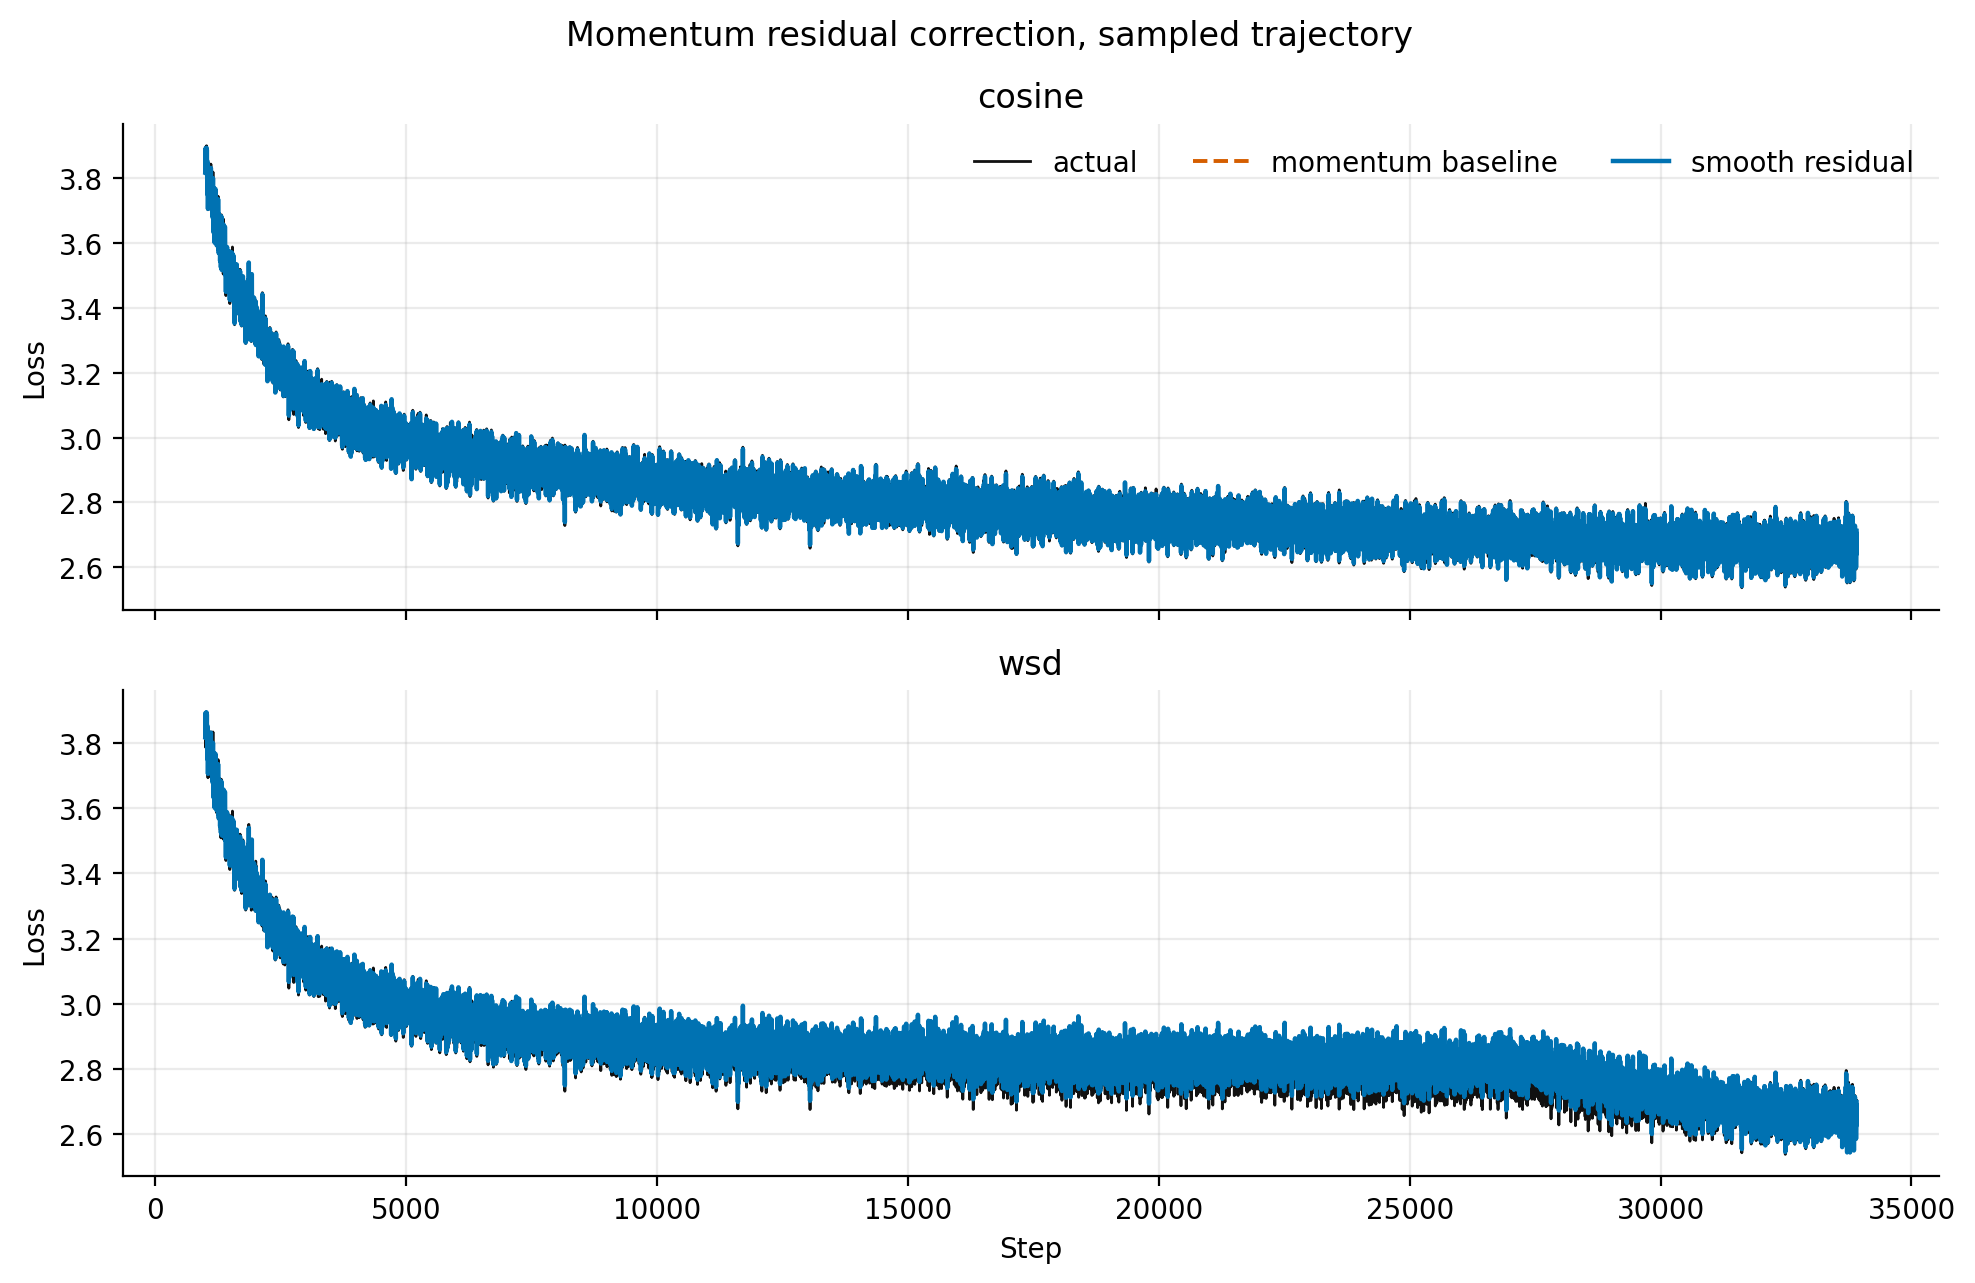
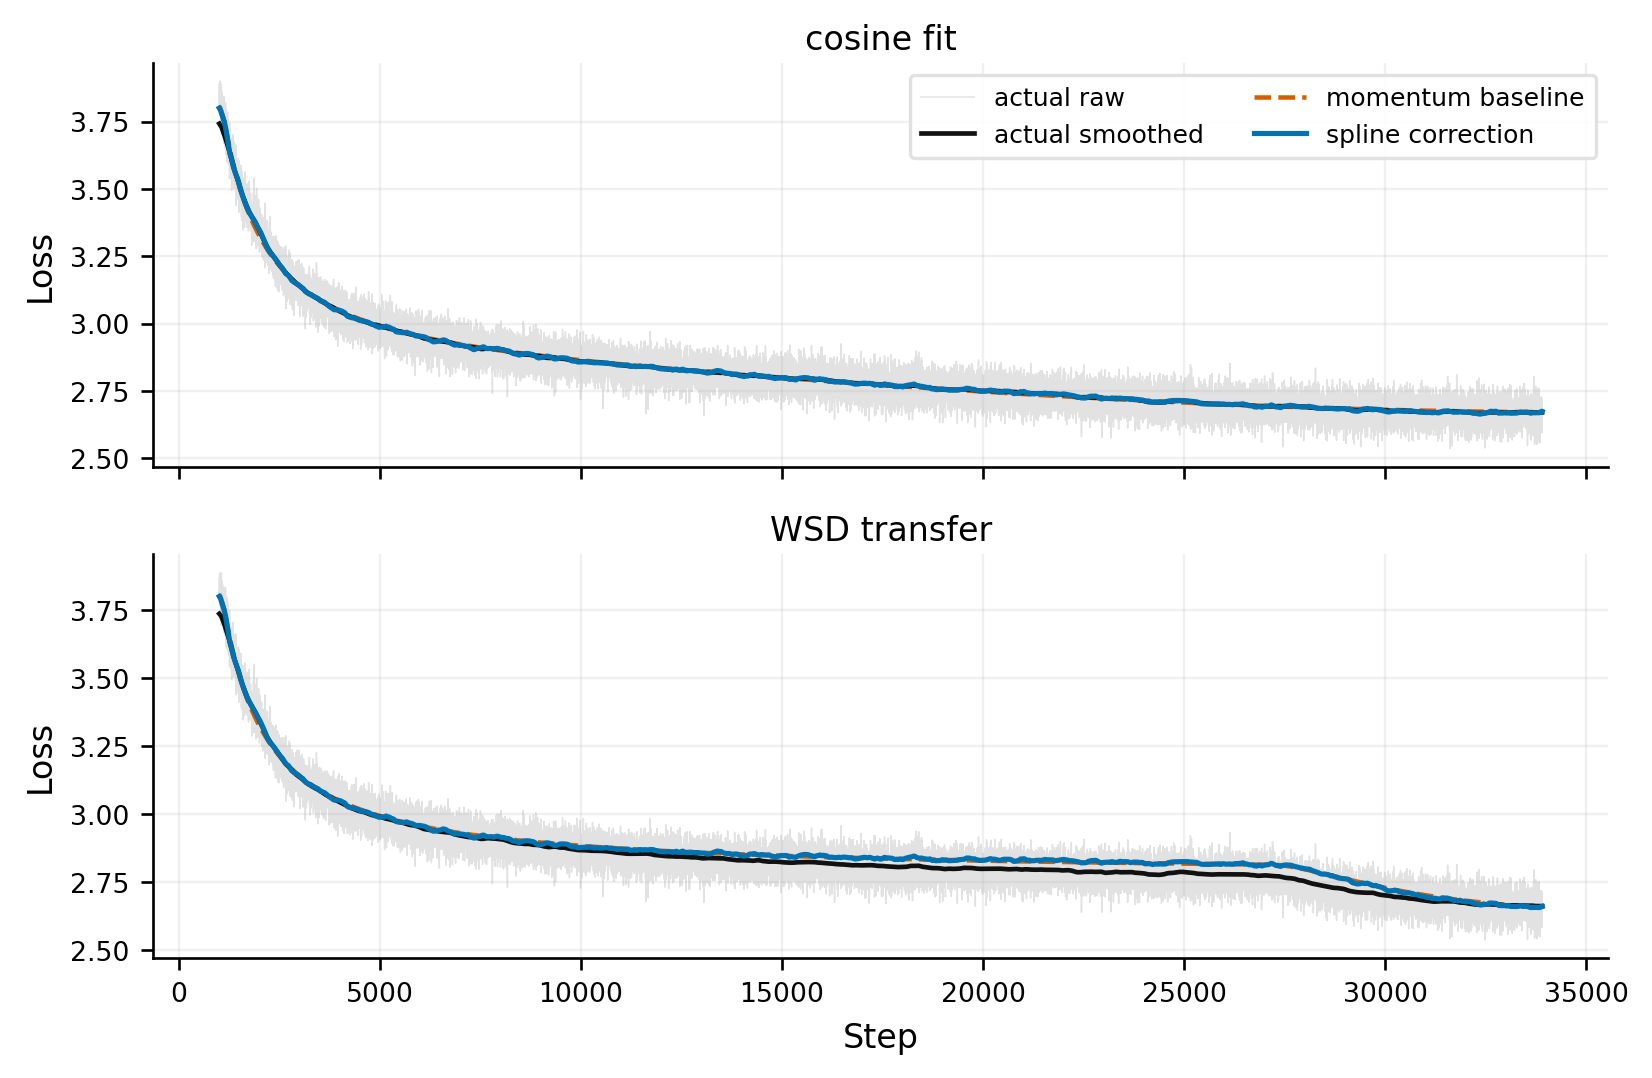
ADD:visual improvement of the spline

diff --git a/zijun/method_development/scripts/run_momentum_residual_spline.py b/zijun/method_development/scripts/run_momentum_residual_spline.py
@@ -54,15 +54,27 @@ def main() -> None:
     ].copy()
     key_predictions.to_csv(OUTPUT_DIR / "key_momentum_residual_predictions.csv", index=False)
 
-    plot_key_model(
+    for filename in [
+        "momentum_residual_spline_full.png",
+        "momentum_residual_spline_full_smoothed.png",
+    ]:
+        plot_key_model(
+            predictions,
+            FIGURE_DIR / filename,
+        )
+    for filename in [
+        "momentum_residual_spline_20000_30000.png",
+        "momentum_residual_spline_20000_30000_smoothed.png",
+    ]:
+        plot_key_model(
+            predictions,
+            FIGURE_DIR / filename,
+            start_step=20000,
+            end_step=30000,
+        )
+    plot_contrast_model(
         predictions,
-        FIGURE_DIR / "momentum_residual_spline_full.png",
-    )
-    plot_key_model(
-        predictions,
-        FIGURE_DIR / "momentum_residual_spline_20000_30000.png",
-        start_step=20000,
-        end_step=30000,
+        FIGURE_DIR / "momentum_residual_spline_contrast.png",
     )
 
     report = metrics[
@@ -80,7 +92,8 @@ def plot_key_model(
 ) -> None:
     output_path.parent.mkdir(parents=True, exist_ok=True)
     schedules = ["cosine", "wsd"]
-    fig, axes = plt.subplots(len(schedules), 1, figsize=(10, 6.5), sharex=True)
+    fig, axes = plt.subplots(len(schedules), 1, figsize=(7.0, 4.6), sharex=True)
+    display_window = 251 if start_step is not None or end_step is not None else 501
 
     for ax, schedule in zip(axes, schedules):
         base = predictions[
@@ -100,26 +113,268 @@ def plot_key_model(
             base = base[base["step"] <= end_step]
             corrected = corrected[corrected["step"] <= end_step]
 
-        ax.plot(base["step"], base["loss"], color="#111111", linewidth=1.0, label="actual")
-        ax.plot(base["step"], base["base_pred_loss"], color="#D55E00", linestyle="--", linewidth=1.4, label="momentum baseline")
-        ax.plot(corrected["step"], corrected["pred_loss"], color="#0072B2", linewidth=1.6, label="smooth residual")
-        ax.set_title(schedule)
+        actual_smooth = smooth_for_display(base["loss"], display_window)
+        baseline_smooth = smooth_for_display(base["base_pred_loss"], max(51, display_window // 2))
+        corrected_smooth = smooth_for_display(corrected["pred_loss"], max(51, display_window // 2))
+
+        raw_base = downsample_for_display(base)
+        ax.plot(
+            raw_base["step"],
+            raw_base["loss"],
+            color="#4D4D4D",
+            alpha=0.16,
+            linewidth=0.45,
+            label="actual raw",
+            rasterized=True,
+            zorder=1,
+        )
+        ax.plot(
+            base["step"],
+            actual_smooth,
+            color="#111111",
+            linewidth=1.4,
+            label="actual smoothed",
+            zorder=4,
+        )
+        ax.plot(
+            base["step"],
+            baseline_smooth,
+            color="#D55E00",
+            linestyle="--",
+            linewidth=1.35,
+            label="momentum baseline",
+            zorder=3,
+        )
+        ax.plot(
+            corrected["step"],
+            corrected_smooth,
+            color="#0072B2",
+            linewidth=1.55,
+            label="spline correction",
+            zorder=5,
+        )
+        title = "cosine fit" if schedule == "cosine" else "WSD transfer"
+        ax.set_title(title, fontsize=10, pad=4)
         ax.set_ylabel("Loss")
-        ax.grid(alpha=0.25)
+        ax.grid(alpha=0.18, linewidth=0.7)
         ax.spines["top"].set_visible(False)
         ax.spines["right"].set_visible(False)
+        ax.tick_params(labelsize=8)
 
     if start_step is not None or end_step is not None:
         axes[-1].set_xlim(start_step, end_step)
-        fig.suptitle(f"Momentum residual correction, steps {start_step}-{end_step}")
-    else:
-        fig.suptitle("Momentum residual correction, sampled trajectory")
 
-    axes[0].legend(frameon=False, ncol=3)
+    axes[0].legend(
+        frameon=True,
+        framealpha=0.88,
+        edgecolor="#DDDDDD",
+        fontsize=7.5,
+        ncol=2,
+        loc="upper right",
+        borderpad=0.45,
+        handlelength=2.1,
+    )
     axes[-1].set_xlabel("Step")
     fig.tight_layout()
-    fig.savefig(output_path, dpi=200, bbox_inches="tight")
+    fig.savefig(output_path, dpi=240, bbox_inches="tight")
     plt.close(fig)
+
+
+def plot_contrast_model(
+    predictions: pd.DataFrame,
+    output_path: Path,
+) -> None:
+    output_path.parent.mkdir(parents=True, exist_ok=True)
+    display_window = 501
+
+    base = predictions[
+        (predictions["schedule"] == "wsd")
+        & (predictions["correction"] == "none")
+    ].sort_values("step")
+    corrected = predictions[
+        (predictions["schedule"] == "wsd")
+        & (predictions["correction"] == "smooth_residual")
+        & (predictions["feature_set"] == KEY_FEATURE_SET)
+    ].sort_values("step")
+
+    step = base["step"].to_numpy()
+    actual_smooth = smooth_for_display(base["loss"], display_window).to_numpy()
+    baseline_smooth = smooth_for_display(base["base_pred_loss"], 251).to_numpy()
+    corrected_smooth = smooth_for_display(corrected["pred_loss"], 251).to_numpy()
+
+    baseline_abs_error = smooth_for_display(
+        (base["base_pred_loss"].reset_index(drop=True) - base["loss"].reset_index(drop=True)).abs(),
+        display_window,
+    ).to_numpy()
+    corrected_abs_error = smooth_for_display(
+        (corrected["pred_loss"].reset_index(drop=True) - corrected["loss"].reset_index(drop=True)).abs(),
+        display_window,
+    ).to_numpy()
+    raw_baseline_mae = float((base["base_pred_loss"] - base["loss"]).abs().mean())
+    raw_corrected_mae = float((corrected["pred_loss"] - corrected["loss"]).abs().mean())
+    mae_reduction = 100.0 * (1.0 - raw_corrected_mae / raw_baseline_mae)
+
+    fig, axes = plt.subplots(
+        2,
+        1,
+        figsize=(7.0, 4.5),
+        sharex=True,
+        gridspec_kw={"height_ratios": [1.7, 1.0], "hspace": 0.12},
+    )
+    loss_ax, error_ax = axes
+
+    raw_base = downsample_for_display(base)
+    loss_ax.plot(
+        raw_base["step"],
+        raw_base["loss"],
+        color="#4D4D4D",
+        alpha=0.12,
+        linewidth=0.4,
+        label="actual raw",
+        rasterized=True,
+        zorder=1,
+    )
+    loss_ax.fill_between(
+        step,
+        baseline_smooth,
+        corrected_smooth,
+        color="#0072B2",
+        alpha=0.16,
+        linewidth=0,
+        label="baseline-to-spline gap",
+        zorder=2,
+    )
+    loss_ax.plot(
+        step,
+        actual_smooth,
+        color="#111111",
+        linewidth=1.45,
+        label="actual smoothed",
+        zorder=5,
+    )
+    loss_ax.plot(
+        step,
+        baseline_smooth,
+        color="#D55E00",
+        linestyle="--",
+        linewidth=1.45,
+        label="momentum baseline",
+        zorder=4,
+    )
+    loss_ax.plot(
+        step,
+        corrected_smooth,
+        color="#0072B2",
+        linewidth=1.8,
+        label="spline correction",
+        zorder=6,
+    )
+    loss_ax.text(
+        0.015,
+        0.08,
+        f"WSD MAE: {raw_baseline_mae:.4f} -> {raw_corrected_mae:.4f} ({mae_reduction:.0f}% lower)",
+        transform=loss_ax.transAxes,
+        fontsize=8.2,
+        bbox={"facecolor": "white", "edgecolor": "#DDDDDD", "alpha": 0.9, "pad": 3.0},
+    )
+    loss_ax.set_title("WSD transfer: loss trajectory", fontsize=10, pad=4)
+    loss_ax.set_ylabel("Loss")
+    loss_ax.legend(
+        frameon=True,
+        framealpha=0.9,
+        edgecolor="#DDDDDD",
+        fontsize=7.2,
+        ncol=2,
+        loc="upper right",
+        borderpad=0.4,
+        handlelength=2.0,
+    )
+
+    error_reduction = baseline_abs_error - corrected_abs_error
+    improved = error_reduction >= 0
+    error_ax.fill_between(
+        step,
+        0,
+        error_reduction,
+        where=improved,
+        color="#0072B2",
+        alpha=0.26,
+        interpolate=True,
+        linewidth=0,
+        label="spline better",
+    )
+    error_ax.fill_between(
+        step,
+        0,
+        error_reduction,
+        where=~improved,
+        color="#D55E00",
+        alpha=0.22,
+        interpolate=True,
+        linewidth=0,
+        label="spline worse",
+    )
+    error_ax.axhline(0, color="#111111", linewidth=0.8, alpha=0.8)
+    error_ax.plot(
+        step,
+        error_reduction,
+        color="#0072B2",
+        linewidth=1.55,
+        label="error reduction",
+        zorder=4,
+    )
+    error_ax.set_title("Absolute-error reduction (positive = spline better)", fontsize=9, pad=3)
+    error_ax.set_ylabel("reduction")
+    error_ax.set_xlabel("Step")
+    error_ax.set_ylim(error_reduction.min() * 1.15, error_reduction.max() * 1.18)
+    error_ax.legend(
+        frameon=False,
+        fontsize=7.0,
+        ncol=3,
+        loc="upper right",
+        handlelength=1.8,
+    )
+
+    for ax in axes:
+        ax.grid(alpha=0.18, linewidth=0.7)
+        ax.spines["top"].set_visible(False)
+        ax.spines["right"].set_visible(False)
+        ax.tick_params(labelsize=8)
+
+    fig.subplots_adjust(left=0.1, right=0.98, top=0.92, bottom=0.12, hspace=0.14)
+    fig.savefig(output_path, dpi=240, bbox_inches="tight")
+    plt.close(fig)
+
+
+def smooth_for_display(values: pd.Series, window: int) -> pd.Series:
+    series = values.reset_index(drop=True).astype(float)
+    if len(series) < 5:
+        return series
+
+    window = min(window, len(series))
+    if window % 2 == 0:
+        window -= 1
+    if window < 5:
+        return series
+
+    min_periods = max(5, window // 8)
+    smoothed = series.rolling(window, center=True, min_periods=min_periods).median()
+
+    mean_window = max(5, window // 5)
+    mean_window = min(mean_window, len(series))
+    if mean_window % 2 == 0:
+        mean_window -= 1
+    smoothed = smoothed.rolling(
+        mean_window,
+        center=True,
+        min_periods=max(3, mean_window // 2),
+    ).mean()
+    return smoothed.bfill().ffill()
+
+
+def downsample_for_display(frame: pd.DataFrame, max_points: int = 6000) -> pd.DataFrame:
+    stride = max(1, len(frame) // max_points)
+    return frame.iloc[::stride]
 
 
 if __name__ == "__main__":

diff --git a/results/presentation_v0.1.tex b/results/presentation_v0.1.tex
@@ -567,8 +567,8 @@
       \(\gamma\) is a shrinkage coefficient, and \(c\) bounds the residual magnitude.
     \end{column}
     \begin{column}{0.44\textwidth}
-      \includegraphics[width=\textwidth]{zijun/method_development/figures/momentum_residual_spline_full.png}
-      \smallnote{Visual diagnostic: momentum baseline and smooth residual correction on cosine/WSD sampled trajectories.}
+      \includegraphics[width=\textwidth]{zijun/method_development/figures/momentum_residual_spline_contrast.png}
+      \smallnote{Top: loss trajectory with the baseline-to-spline gap shaded. Bottom: absolute-error reduction; positive blue area means the spline correction is closer to the raw loss.}
     \end{column}
   \end{columns}
 \end{frame}